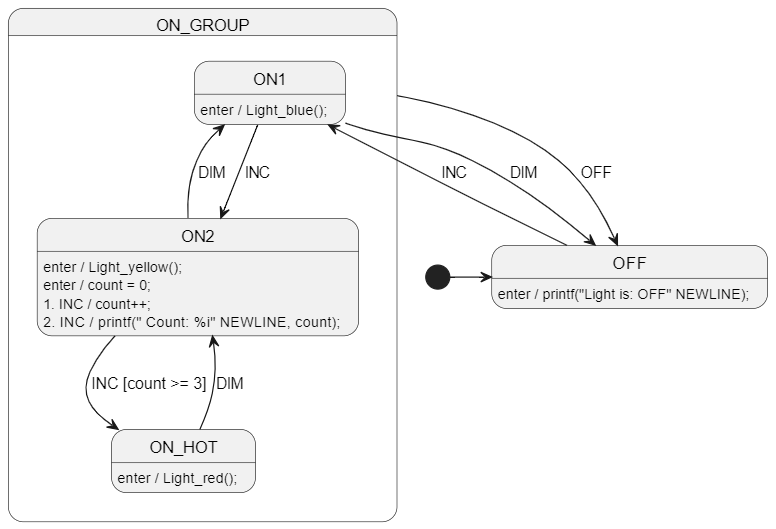
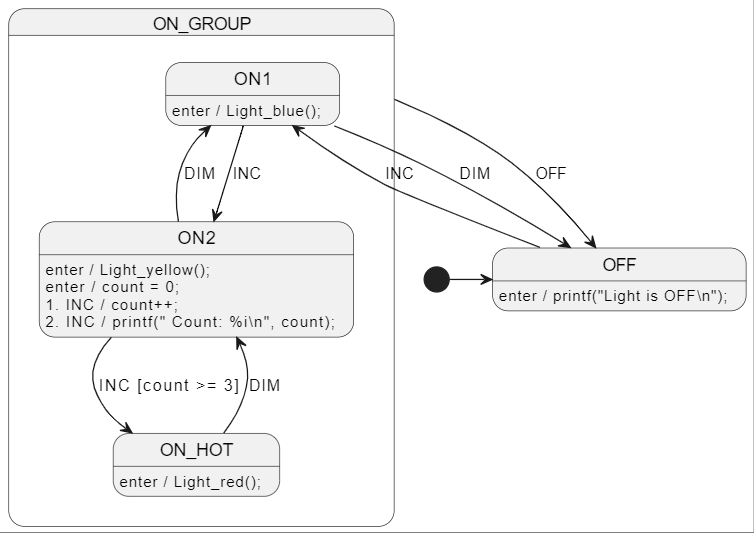
lesson-4 tidy c99
https://github.com/StateSmith/StateSmith/issues/369

diff --git a/lesson-4/c99-gcc/LightSm.sim.html b/lesson-4/c99-gcc/LightSm.sim.html
@@ -220,7 +220,7 @@ OFF
 
 OFF : OFF
 
-OFF : enter / #123; printf("Light is OFF" NEWLINE)#59; #125;
+OFF : enter / #123; printf("Light is OFF#92;n")#59; #125;
 
 state ON_GROUP {
 
@@ -240,7 +240,7 @@ state ON_GROUP {
 
         ON2 : 1. INC / #123; count++#59; #125;
 
-        ON2 : 2. INC / #123; printf("    Count#58#59; %i" NEWLINE, count)#59; #125;
+        ON2 : 2. INC / #123; printf("    Count#58#59; %i#92;n", count)#59; #125;
 
         ON_HOT
 
@@ -477,10 +477,10 @@ evaluateGuard = null;
         } // end of behavior for OFF
         
         // OFF behavior
-        // uml: enter / { this.tracer?.log("⚡ FSM would execute action: " + "printf(\"Light is OFF\" NEWLINE);"); }
+        // uml: enter / { this.tracer?.log("⚡ FSM would execute action: " + "printf(\"Light is OFF\n\");"); }
         {
-            // Step 1: execute action `this.tracer?.log("⚡ FSM would execute action: " + "printf(\"Light is OFF\" NEWLINE);");`
-            this.tracer?.log("⚡ FSM would execute action: " + "printf(\"Light is OFF\" NEWLINE);");
+            // Step 1: execute action `this.tracer?.log("⚡ FSM would execute action: " + "printf(\"Light is OFF\n\");");`
+            this.tracer?.log("⚡ FSM would execute action: " + "printf(\"Light is OFF\n\");");
         } // end of behavior for OFF
     }
     
@@ -777,10 +777,10 @@ evaluateGuard = null;
         } // end of behavior for ON2
         
         // ON2 behavior
-        // uml: 2. INC / { this.tracer?.log("⚡ FSM would execute action: " + "printf(\"    Count: %i\" NEWLINE, count);"); }
+        // uml: 2. INC / { this.tracer?.log("⚡ FSM would execute action: " + "printf(\"    Count: %i\n\", count);"); }
         {
-            // Step 1: execute action `this.tracer?.log("⚡ FSM would execute action: " + "printf(\"    Count: %i\" NEWLINE, count);");`
-            this.tracer?.log("⚡ FSM would execute action: " + "printf(\"    Count: %i\" NEWLINE, count);");
+            // Step 1: execute action `this.tracer?.log("⚡ FSM would execute action: " + "printf(\"    Count: %i\n\", count);");`
+            this.tracer?.log("⚡ FSM would execute action: " + "printf(\"    Count: %i\n\", count);");
         } // end of behavior for ON2
         
         // ON2 behavior

diff --git a/lesson-4/c99-gcc/LightSm.c b/lesson-4/c99-gcc/LightSm.c
@@ -4,8 +4,6 @@
 // Whatever you put in this `FileTop` section will end up 
 // being printed at the top of every generated code file.
 
-#define NEWLINE "\n" // For StateSmith PlantUML issue https://github.com/StateSmith/StateSmith/issues/369
-
 #include "LightSm.h"
 #include <stdbool.h> // required for `consume_event` flag
 #include <string.h> // for memset
@@ -202,10 +200,10 @@ static void OFF_enter(LightSm* sm)
     sm->state_id = LightSm_StateId_OFF;
     
     // OFF behavior
-    // uml: enter / { printf("Light is OFF" NEWLINE); }
+    // uml: enter / { printf("Light is OFF\n"); }
     {
-        // Step 1: execute action `printf("Light is OFF" NEWLINE);`
-        printf("Light is OFF" NEWLINE);
+        // Step 1: execute action `printf("Light is OFF\n");`
+        printf("Light is OFF\n");
     } // end of behavior for OFF
 }
 
@@ -433,10 +431,10 @@ static void ON2_inc(LightSm* sm)
     } // end of behavior for ON2
     
     // ON2 behavior
-    // uml: 2. INC / { printf("    Count: %i" NEWLINE, count); }
+    // uml: 2. INC / { printf("    Count: %i\n", count); }
     {
-        // Step 1: execute action `printf("    Count: %i" NEWLINE, count);`
-        printf("    Count: %i" NEWLINE, sm->vars.count);
+        // Step 1: execute action `printf("    Count: %i\n", count);`
+        printf("    Count: %i\n", sm->vars.count);
     } // end of behavior for ON2
     
     // ON2 behavior

diff --git a/lesson-4/c99-gcc/README.md b/lesson-4/c99-gcc/README.md
@@ -7,13 +7,6 @@ The only GCC specific things are:
 # Diagram
 See [LightSm.plantuml](./LightSm.plantuml) for the PlantUML code.
 
-> NOTE: I just noticed a minor issue with StateSmith PlantUML support and `\n` characters.
-I don't normally use `printf()` directly in my state machines, but I did in this example.
-See [issue 369](https://github.com/StateSmith/StateSmith/issues/369) for workaround and details.
-
-> This project defines a macro `NEWLINE` to get around this issue.
-
-
 ![](docs/fsm.png)
 
 # Run The Code Gen
